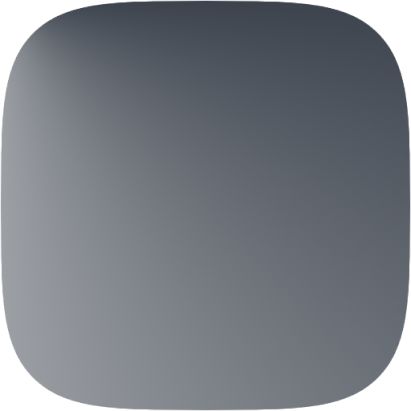
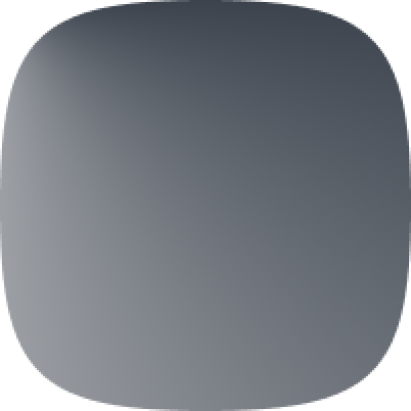
[ChangeLog] ~
[Build][ChangeLog]
~

Changed region(s): [[0.0, 0.0, 1.0, 1.0], [0.0, 0.0, 0.4088, 0.3504]]

diff --git a/fibonacci/lib/dashboard/ui/sections/category/CategoryItem.dart b/fibonacci/lib/dashboard/ui/sections/category/CategoryItem.dart
@@ -2,7 +2,7 @@
  * Copyright © 2024 By Geeks Empire.
  *
  * Created by Elias Fazel
- * Last modified 1/16/24, 9:58 AM
+ * Last modified 1/17/24, 7:15 AM
  *
  * Licensed Under MIT License.
  * https://opensource.org/licenses/MIT
@@ -33,89 +33,108 @@ class _CategoryItemInterfaceState extends State<CategoryItemInterface> {
   @override
   Widget build(BuildContext context) {
 
-    return SizedBox(
-        height: 137,
-        width: 137,
-        child: Stack(
-          children: [
+    return Padding(
+      padding: const EdgeInsets.only(right: 19),
+      child: SizedBox(
+          height: 137,
+          width: 137,
+          child: Stack(
+              children: [
 
-            /*
-             * Start - Background
-             */
-            WidgetMask(
-              blendMode: BlendMode.srcATop,
-              childSaveLayer: true,
-              mask: ColoredBox(
-                color: convertToColor(widget.rhythmDataStructure.taskColorTag()),
-              ),
-              child: const Image(
-                image: AssetImage("assets/squircle_shape.png"),
-              ),
-            ),
+                /*
+                 * Start - Background
+                 */
+                Center(
+                  child: SizedBox(
+                      height: 136,
+                      width: 136,
+                      child: WidgetMask(
+                          blendMode: BlendMode.srcATop,
+                          childSaveLayer: true,
+                          mask: ColoredBox(
+                            color: convertToColor(widget.rhythmDataStructure.taskColorTag()),
+                          ),
+                          child: const Image(
+                            image: AssetImage("assets/squircle_shape.png"),
+                            fit: BoxFit.cover,
+                          )
+                      )
+                  )
+                ),
 
-            const Image(
-              image: AssetImage("assets/squircle_adjustment_gradient.png"),
-            ),
-            /*
-             * End - Background
-             */
-
-            /*
-             * Start - Title
-             */
-            Positioned(
-              left: 19,
-              right: 19,
-              top: 19,
-              child: SizedBox(
-                height: 35,
-                child: Text(
-                  widget.rhythmDataStructure.taskTitle(),
-                  style: const TextStyle(
-                    color: ColorsResources.premiumLight,
-                    fontSize: 15,
-                    letterSpacing: 1.7
+                const SizedBox(
+                  height: 137,
+                  width: 137,
+                  child: Image(
+                    image: AssetImage("assets/squircle_adjustment_gradient.png"),
+                    fit: BoxFit.cover,
                   ),
                 ),
-              )
-            ),
-            /*
-             * End - Title
-             */
+                /*
+                 * End - Background
+                 */
 
-            /*
-             * Start - Run
-             */
-            Positioned(
-                left: 19,
-                right: 19,
-                bottom: 19,
-                child: ClipRRect(
-                  borderRadius: BorderRadius.circular(7),
-                  child: Material(
-                      shadowColor: Colors.transparent,
-                      color: Colors.transparent,
-                      child: InkWell(
-                          splashColor: convertToColor(widget.rhythmDataStructure.taskColorTag()).withOpacity(0.73),
-                          splashFactory: InkRipple.splashFactory,
-                      onTap: () async {
-
-
-
-                      },
-                      child: const Image(
-                        image: AssetImage("assets/run_item.png"),
-                      )
+                /*
+                 * Start - Title
+                 */
+                Positioned(
+                    left: 19,
+                    right: 19,
+                    top: 19,
+                    child: SizedBox(
+                      height: 35,
+                      child: Text(
+                        widget.rhythmDataStructure.taskTitle(),
+                        style: const TextStyle(
+                            color: ColorsResources.premiumLight,
+                            fontSize: 15,
+                            letterSpacing: 1.7
+                        ),
+                      ),
                     )
-                  )
-                )
-            )
-            /*
-             * End - Run
-             */
+                ),
+                /*
+                 * End - Title
+                 */
 
-          ]
-        )
+                /*
+                 * Start - Run
+                 */
+                Positioned(
+                    left: 19,
+                    right: 19,
+                    bottom: 19,
+                    child: ClipRRect(
+                        borderRadius: BorderRadius.circular(7),
+                        child: Material(
+                            shadowColor: Colors.transparent,
+                            color: Colors.transparent,
+                            child: InkWell(
+                                splashColor: convertToColor(widget.rhythmDataStructure.taskColorTag()).withOpacity(0.73),
+                                splashFactory: InkRipple.splashFactory,
+                                onTap: () {
+
+                                  Future.delayed(const Duration(microseconds: 333), () async {
+
+
+
+                                  });
+
+                                },
+                                child: const Image(
+                                  image: AssetImage("assets/run_item.png"),
+                                )
+                            )
+                        )
+                    )
+                )
+                /*
+                 * End - Run
+                 */
+
+              ]
+          )
+      )
     );
   }
 

diff --git a/fibonacci/lib/dashboard/ui/sections/category/Category.dart b/fibonacci/lib/dashboard/ui/sections/category/Category.dart
@@ -2,12 +2,13 @@
  * Copyright © 2024 By Geeks Empire.
  *
  * Created by Elias Fazel
- * Last modified 1/16/24, 12:59 PM
+ * Last modified 1/17/24, 7:20 AM
  *
  * Licensed Under MIT License.
  * https://opensource.org/licenses/MIT
  */
 
+import 'package:fibonacci/dashboard/ui/sections/category/CategoryItem.dart';
 import 'package:fibonacci/dashboard/utils/CategorizedBy.dart';
 import 'package:fibonacci/preferences/io/PreferencesIO.dart';
 import 'package:fibonacci/resources/colors_resources.dart';
@@ -17,15 +18,17 @@ import 'package:flutter/material.dart';
 
 class CategoryInterface extends StatefulWidget {
 
-  List<RhythmDataStructure> rhythmDataStructure = [];
+  List<RhythmDataStructure> rhythmsDataStructures = [];
   int categorizedBy = 0;
 
-  CategoryInterface({Key? key, required this.rhythmDataStructure, required this.categorizedBy}) : super(key: key);
+  CategoryInterface({Key? key, required this.rhythmsDataStructures, required this.categorizedBy}) : super(key: key);
 
   @override
   State<CategoryInterface> createState() => _CategoryInterfaceState();
 }
 class _CategoryInterfaceState extends State<CategoryInterface> {
+
+  Widget rhythmsPlaceholder = Container();
 
   PreferencesIO preferencesIO = PreferencesIO();
 
@@ -36,9 +39,9 @@ class _CategoryInterfaceState extends State<CategoryInterface> {
   void initState() {
     super.initState();
 
-    processTasks();
+    processTasks(widget.rhythmsDataStructures);
 
-    debugPrint("Rhythms: ${widget.rhythmDataStructure.length}");
+    debugPrint("Rhythms: ${widget.rhythmsDataStructures.length}");
   }
 
   @override
@@ -47,29 +50,29 @@ class _CategoryInterfaceState extends State<CategoryInterface> {
     switch (widget.categorizedBy) {
       case CategorizedBy.categories: {
 
-        categoryName = widget.rhythmDataStructure.first.taskCategory();
+        categoryName = widget.rhythmsDataStructures.first.taskCategory();
 
         break;
       }
       case CategorizedBy.locations: {
 
-        categoryName = widget.rhythmDataStructure.first.taskLocation();
+        categoryName = widget.rhythmsDataStructures.first.taskLocation();
 
         break;
       }
       case CategorizedBy.colorsTags: {
 
         categoryName = "";
-        colorTag = convertToColor(widget.rhythmDataStructure.first.taskColorTag());
+        colorTag = convertToColor(widget.rhythmsDataStructures.first.taskColorTag());
 
         break;
       }
     }
 
     return Padding(
-      padding: const EdgeInsets.only(bottom: 37),
+      padding: const EdgeInsets.only(bottom: 51),
       child: SizedBox(
-          height: 193,
+          height: 199,
           width: double.infinity,
           child: Column(
               mainAxisAlignment: MainAxisAlignment.start,
@@ -80,7 +83,7 @@ class _CategoryInterfaceState extends State<CategoryInterface> {
                 * Start - Title
                 */
                 Container(
-                    height: 31,
+                    height: 37,
                     width: double.infinity,
                     decoration: BoxDecoration(
                         borderRadius: BorderRadius.circular(11),
@@ -95,14 +98,14 @@ class _CategoryInterfaceState extends State<CategoryInterface> {
                         categoryName,
                         style: const TextStyle(
                             color: ColorsResources.premiumLight,
-                            fontSize: 23,
+                            fontSize: 25,
                             letterSpacing: 1.7
                         )
                     )
                 ),
                 /*
-             * End - Title
-             */
+                * End - Title
+                */
 
                 const Divider(
                   height: 23,
@@ -111,16 +114,7 @@ class _CategoryInterfaceState extends State<CategoryInterface> {
 
                 SizedBox(
                     height: 137,
-                    child: ListView(
-                        padding: const EdgeInsets.only(right: 301),
-                        scrollDirection: Axis.horizontal,
-                        physics: const BouncingScrollPhysics(),
-                        children: [
-
-
-
-                        ]
-                    )
+                    child: rhythmsPlaceholder
                 ),
 
               ]
@@ -129,9 +123,26 @@ class _CategoryInterfaceState extends State<CategoryInterface> {
     );
   }
 
-  void processTasks() async {
+  void processTasks(List<RhythmDataStructure> rhythmDataStructures) async {
 
+    List<Widget> allRhythms = [];
 
+    for (RhythmDataStructure rhythmDataStructure in rhythmDataStructures) {
+
+      allRhythms.add(CategoryItemInterface(rhythmDataStructure: rhythmDataStructure));
+
+    }
+
+    setState(() {
+
+      rhythmsPlaceholder = ListView(
+          padding: const EdgeInsets.only(right: 183),
+          scrollDirection: Axis.horizontal,
+          physics: const BouncingScrollPhysics(),
+          children: allRhythms
+      );
+
+    });
 
   }
 

diff --git a/fibonacci/lib/dashboard/ui/Dashboard.dart b/fibonacci/lib/dashboard/ui/Dashboard.dart
@@ -2,7 +2,7 @@
  * Copyright © 2024 By Geeks Empire.
  *
  * Created by Elias Fazel
- * Last modified 1/16/24, 12:58 PM
+ * Last modified 1/17/24, 6:49 AM
  *
  * Licensed Under MIT License.
  * https://opensource.org/licenses/MIT
@@ -234,7 +234,7 @@ class _DashboardInterfaceState extends State<DashboardInterface> {
     for (var element in allRhythmsWidget.keys) {
       debugPrint(element);
 
-      categorizedRhythms.add(CategoryInterface(rhythmDataStructure: allRhythmsWidget[element]!, categorizedBy: categorizedBy));
+      categorizedRhythms.add(CategoryInterface(rhythmsDataStructures: allRhythmsWidget[element]!, categorizedBy: categorizedBy));
 
     }
 

diff --git a/fibonacci/android/app/src/main/java/io/flutter/plugins/GeneratedPluginRegistrant.java b/fibonacci/android/app/src/main/java/io/flutter/plugins/GeneratedPluginRegistrant.java
@@ -2,7 +2,7 @@
  * Copyright © 2024 By Geeks Empire.
  *
  * Created by Elias Fazel
- * Last modified 1/16/24, 12:56 PM
+ * Last modified 1/17/24, 7:20 AM
  *
  * Licensed Under MIT License.
  * https://opensource.org/licenses/MIT
